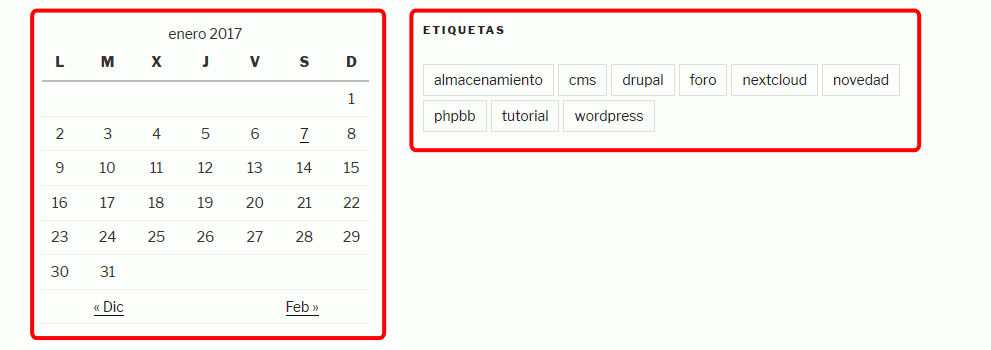
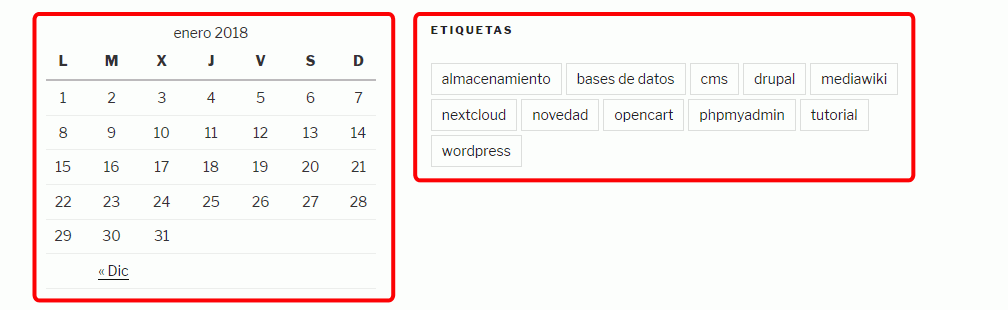
Sigo actualizando ejercicios y soluciones WordPress 3

diff --git a/lecciones/nextcloud.html b/lecciones/nextcloud.html
@@ -55,65 +55,68 @@
     <p>ownCloud es un proyecto iniciado por <a href="http://karlitschek.de/">Frank Karlitschek</a> a principios de 2010. En diciembre de 2011 Karlitschek creó la empressa ownCloud Inc. para proporcionar servicios profesionales alrededor de ownCloud. Por divergencias relacionadas con el modelo de negocio, en junio de 2016 Karlitschek y la mayoría de desarrolladores se separaron de ownCloud y fundaron un nuevo proyecto, Nextcloud, con un modelo de desarrollo más abierto y comprometido con el software libre.</p>
 
     <p class="mcl-centrado">
-      <svg version="1.1" xmlns="http://www.w3.org/2000/svg" width="1100" viewBox="-50 -60 1100 100">
-        <line x1="35" y1="0" x2="780" y2="0" stroke-width="3" stroke="hsl(215, 40%, 19%)" />
-        <line x1="780" y1="0" x2="1040" y2="0" stroke-width="3" stroke="hsl(201, 87%, 43%)" />
-        <text x="-40" y="-10" text-anchor="start" style="font-size: 100%">Nextcloud</text>
-        <text x="-40" y="25" text-anchor="start" style="font-size: 100%">ownCloud</text>
-        <text x="-10" y="-50" text-anchor="middle" style="font-size: 60%">Actualizado</text>
-        <text x="-10" y="-38" text-anchor="middle" style="font-size: 60%">25-05-2017</text>
+      <svg version="1.1" xmlns="http://www.w3.org/2000/svg" width="984" viewBox="-100 -60 984 110">
+        <line x1="-20" y1="0" x2="594" y2="0" stroke-width="3" stroke="hsl(215, 40%, 19%)" />
+        <line x1="594" y1="0" x2="884" y2="0" stroke-width="3" stroke="hsl(201, 87%, 43%)" />
+        <text x="-100" y="-10" text-anchor="start" fill="hsl(201, 87%, 43%)" style="font-size: 100%">Nextcloud</text>
+        <text x="-100" y="25" text-anchor="start" fill="hsl(215, 40%, 19%)" style="font-size: 100%">ownCloud</text>
+        <text x="-60" y="-50" text-anchor="middle" style="font-size: 60%">Actualizado</text>
+        <text x="-60" y="-38" text-anchor="middle" style="font-size: 60%">22-01-2018</text>
 
-        <line x1="60" y1="-30" x2="60" y2="30" stroke-width="1" stroke-dasharray="5,5" stroke="black" />
-        <text x="120" y="-40" text-anchor="middle" style="font-size: 80%">2010</text>
-        <line x1="180" y1="-30" x2="180" y2="30" stroke-width="1" stroke-dasharray="5,5" stroke="black" />
-        <text x="240" y="-40" text-anchor="middle" style="font-size: 80%">2011</text>
-        <line x1="300" y1="-30" x2="300" y2="30" stroke-width="1" stroke-dasharray="5,5" stroke="black" />
-        <text x="360" y="-40" text-anchor="middle" style="font-size: 80%">2012</text>
-        <line x1="420" y1="-30" x2="420" y2="30" stroke-width="1" stroke-dasharray="5,5" stroke="black" />
-        <text x="480" y="-40" text-anchor="middle" style="font-size: 80%">2013</text>
-        <line x1="540" y1="-30" x2="540" y2="30" stroke-width="1" stroke-dasharray="5,5" stroke="black" />
-        <text x="600" y="-40" text-anchor="middle" style="font-size: 80%">2014</text>
-        <line x1="660" y1="-30" x2="660" y2="30" stroke-width="1" stroke-dasharray="5,5" stroke="black" />
-        <text x="720" y="-40" text-anchor="middle" style="font-size: 80%">2015</text>
-        <line x1="780" y1="-30" x2="780" y2="30" stroke-width="1" stroke-dasharray="5,5" stroke="black" />
-        <text x="840" y="-40" text-anchor="middle" style="font-size: 80%">2016</text>
-        <line x1="900" y1="-30" x2="900" y2="30" stroke-width="1" stroke-dasharray="5,5" stroke="black" />
-        <text x="960" y="-40" text-anchor="middle" style="font-size: 80%">2017</text>
-        <line x1="1020" y1="-30" x2="1020" y2="30" stroke-width="1" stroke-dasharray="5,5" stroke="black" />
-        <text x="1080" y="-40" text-anchor="middle" style="font-size: 80%">2018</text>
+        <line x1="0" y1="-50" x2="0" y2="50" stroke-width="1" stroke-dasharray="5,5" stroke="black" />
+        <text x="48" y="-40" text-anchor="middle" style="font-size: 80%">2010</text>
+        <line x1="96" y1="-50" x2="96" y2="50" stroke-width="1" stroke-dasharray="5,5" stroke="black" />
+        <text x="144" y="-40" text-anchor="middle" style="font-size: 80%">2011</text>
+        <line x1="192" y1="-50" x2="192" y2="50" stroke-width="1" stroke-dasharray="5,5" stroke="black" />
+        <text x="240" y="-40" text-anchor="middle" style="font-size: 80%">2012</text>
+        <line x1="288" y1="-50" x2="288" y2="50" stroke-width="1" stroke-dasharray="5,5" stroke="black" />
+        <text x="336" y="-40" text-anchor="middle" style="font-size: 80%">2013</text>
+        <line x1="384" y1="-50" x2="384" y2="50" stroke-width="1" stroke-dasharray="5,5" stroke="black" />
+        <text x="432" y="-40" text-anchor="middle" style="font-size: 80%">2014</text>
+        <line x1="480" y1="-50" x2="480" y2="50" stroke-width="1" stroke-dasharray="5,5" stroke="black" />
+        <text x="528" y="-40" text-anchor="middle" style="font-size: 80%">2015</text>
+        <line x1="576" y1="-50" x2="576" y2="50" stroke-width="1" stroke-dasharray="5,5" stroke="black" />
+        <text x="624" y="-40" text-anchor="middle" style="font-size: 80%">2016</text>
+        <line x1="672" y1="-50" x2="672" y2="50" stroke-width="1" stroke-dasharray="5,5" stroke="black" />
+        <text x="720" y="-40" text-anchor="middle" style="font-size: 80%">2017</text>
+        <line x1="768" y1="-50" x2="768" y2="50" stroke-width="1" stroke-dasharray="5,5" stroke="black" />
+        <text x="816" y="-40" text-anchor="middle" style="font-size: 80%">2018</text>
+        <line x1="864" y1="-50" x2="864" y2="50" stroke-width="1" stroke-dasharray="5,5" stroke="black" />
 
-        <circle cx="117" cy="0" r="5" fill="hsl(215, 40%, 19%)" />
-        <text x="117" y="25" text-anchor="middle" fill="hsl(215, 40%, 19%)" style="font-size: 80%; font-weight: bold">1</text>
-        <circle cx="167" cy="0" r="5" fill="hsl(215, 40%, 19%)" />
-        <text x="167" y="25" text-anchor="middle" fill="hsl(215, 40%, 19%)" style="font-size: 80%; font-weight: bold">1.1</text>
-        <circle cx="273" cy="0" r="5" fill="hsl(215, 40%, 19%)" />
-        <text x="273" y="25" text-anchor="middle" fill="hsl(215, 40%, 19%)" style="font-size: 80%; font-weight: bold">2</text>
-        <circle cx="310" cy="0" r="5" fill="hsl(215, 40%, 19%)" />
-        <text x="310" y="25" text-anchor="middle" fill="hsl(215, 40%, 19%)" style="font-size: 80%; font-weight: bold">3</text>
-        <circle cx="347" cy="0" r="5" fill="hsl(215, 40%, 19%)" />
-        <text x="347" y="25" text-anchor="middle" fill="hsl(215, 40%, 19%)" style="font-size: 80%; font-weight: bold">4</text>
-        <circle cx="393" cy="0" r="5" fill="hsl(215, 40%, 19%)" />
-        <text x="393" y="25" text-anchor="middle" fill="hsl(215, 40%, 19%)" style="font-size: 80%; font-weight: bold">4.5</text>
-        <circle cx="444" cy="0" r="5" fill="hsl(215, 40%, 19%)" />
-        <text x="444" y="25" text-anchor="middle" fill="hsl(215, 40%, 19%)" style="font-size: 80%; font-weight: bold">5</text>
-        <circle cx="533" cy="0" r="5" fill="hsl(215, 40%, 19%)" />
-        <text x="533" y="25" text-anchor="middle" fill="hsl(215, 40%, 19%)" style="font-size: 80%; font-weight: bold">6</text>
-        <circle cx="597" cy="0" r="5" fill="hsl(215, 40%, 19%)" />
-        <text x="597" y="25" text-anchor="middle" fill="hsl(215, 40%, 19%)" style="font-size: 80%; font-weight: bold">7</text>
-        <circle cx="673" cy="0" r="5" fill="hsl(215, 40%, 19%)" />
-        <text x="673" y="25" text-anchor="middle" fill="hsl(215, 40%, 19%)" style="font-size: 80%; font-weight: bold">8</text>
-        <circle cx="722" cy="0" r="5" fill="hsl(215, 40%, 19%)" />
-        <text x="722" y="25" text-anchor="middle" fill="hsl(215, 40%, 19%)" style="font-size: 80%; font-weight: bold">8.1</text>
-        <circle cx="756" cy="0" r="5" fill="hsl(215, 40%, 19%)" />
-        <text x="756" y="25" text-anchor="middle" fill="hsl(215, 40%, 19%)" style="font-size: 80%; font-weight: bold">8.2</text>
-        <circle cx="802" cy="0" r="5" fill="hsl(201, 87%, 43%)" />
-        <text x="802" y="-15" text-anchor="middle" fill="hsl(201, 87%, 43%)" style="font-size: 80%; font-weight: bold">9</text>
-        <circle cx="858" cy="0" r="5" fill="hsl(201, 87%, 43%)" />
-        <text x="858" y="-15" text-anchor="middle" fill="hsl(201, 87%, 43%)" style="font-size: 80%; font-weight: bold">10</text>
-        <circle cx="894" cy="0" r="5" fill="hsl(201, 87%, 43%)" />
-        <text x="894" y="-15" text-anchor="middle" fill="hsl(201, 87%, 43%)" style="font-size: 80%; font-weight: bold">11</text>
-        <circle cx="947" cy="0" r="5" fill="hsl(201, 87%, 43%)" />
-        <text x="947" y="-15" text-anchor="middle" fill="hsl(201, 87%, 43%)" style="font-size: 80%; font-weight: bold">12</text>
+        <circle cx="46" cy="0" r="5" fill="hsl(215, 40%, 19%)" />
+        <text x="46" y="25" text-anchor="middle" fill="hsl(215, 40%, 19%)" style="font-size: 80%; font-weight: bold">1</text>
+        <circle cx="86" cy="0" r="5" fill="hsl(215, 40%, 19%)" />
+        <text x="86" y="25" text-anchor="middle" fill="hsl(215, 40%, 19%)" style="font-size: 80%; font-weight: bold">1.1</text>
+        <circle cx="170" cy="0" r="5" fill="hsl(215, 40%, 19%)" />
+        <text x="170" y="25" text-anchor="middle" fill="hsl(215, 40%, 19%)" style="font-size: 80%; font-weight: bold">2</text>
+        <circle cx="200" cy="0" r="5" fill="hsl(215, 40%, 19%)" />
+        <text x="200" y="25" text-anchor="middle" fill="hsl(215, 40%, 19%)" style="font-size: 80%; font-weight: bold">3</text>
+        <circle cx="229" cy="0" r="5" fill="hsl(215, 40%, 19%)" />
+        <text x="229" y="25" text-anchor="middle" fill="hsl(215, 40%, 19%)" style="font-size: 80%; font-weight: bold">4</text>
+        <circle cx="266" cy="0" r="5" fill="hsl(215, 40%, 19%)" />
+        <text x="266" y="25" text-anchor="middle" fill="hsl(215, 40%, 19%)" style="font-size: 80%; font-weight: bold">4.5</text>
+        <circle cx="307" cy="0" r="5" fill="hsl(215, 40%, 19%)" />
+        <text x="307" y="25" text-anchor="middle" fill="hsl(215, 40%, 19%)" style="font-size: 80%; font-weight: bold">5</text>
+        <circle cx="379" cy="0" r="5" fill="hsl(215, 40%, 19%)" />
+        <text x="379" y="25" text-anchor="middle" fill="hsl(215, 40%, 19%)" style="font-size: 80%; font-weight: bold">6</text>
+        <circle cx="430" cy="0" r="5" fill="hsl(215, 40%, 19%)" />
+        <text x="430" y="25" text-anchor="middle" fill="hsl(215, 40%, 19%)" style="font-size: 80%; font-weight: bold">7</text>
+        <circle cx="491" cy="0" r="5" fill="hsl(215, 40%, 19%)" />
+        <text x="491" y="25" text-anchor="middle" fill="hsl(215, 40%, 19%)" style="font-size: 80%; font-weight: bold">8</text>
+        <circle cx="529" cy="0" r="5" fill="hsl(215, 40%, 19%)" />
+        <text x="529" y="25" text-anchor="middle" fill="hsl(215, 40%, 19%)" style="font-size: 80%; font-weight: bold">8.1</text>
+        <circle cx="557" cy="0" r="5" fill="hsl(215, 40%, 19%)" />
+        <text x="557" y="25" text-anchor="middle" fill="hsl(215, 40%, 19%)" style="font-size: 80%; font-weight: bold">8.2</text>
+        <circle cx="594" cy="0" r="5" fill="hsl(201, 87%, 43%)" />
+        <text x="594" y="-15" text-anchor="middle" fill="hsl(201, 87%, 43%)" style="font-size: 80%; font-weight: bold">9</text>
+        <circle cx="639" cy="0" r="5" fill="hsl(201, 87%, 43%)" />
+        <text x="639" y="-15" text-anchor="middle" fill="hsl(201, 87%, 43%)" style="font-size: 80%; font-weight: bold">10</text>
+        <circle cx="668" cy="0" r="5" fill="hsl(201, 87%, 43%)" />
+        <text x="668" y="-15" text-anchor="middle" fill="hsl(201, 87%, 43%)" style="font-size: 80%; font-weight: bold">11</text>
+        <circle cx="710" cy="0" r="5" fill="hsl(201, 87%, 43%)" />
+        <text x="710" y="-15" text-anchor="middle" fill="hsl(201, 87%, 43%)" style="font-size: 80%; font-weight: bold">12</text>
+        <circle cx="776" cy="0" r="5" fill="white" stroke="hsl(201, 87%, 43%)" stroke-width="2" />
+        <text x="776" y="-15" text-anchor="middle" fill="hsl(201, 87%, 43%)" style="font-size: 80%; font-weight: bold">13</text>
       </svg>
     </p>
 
@@ -125,7 +128,7 @@
   </section>
 
   <footer>
-    <p class="ultmod">Última modificación de esta página: 25 de mayo de 2017</p>
+    <p class="ultmod">Última modificación de esta página: 22 de enero de 2018</p>
 
     <p class="licencia"><a rel="license" href="https://creativecommons.org/licenses/by-sa/4.0/deed.es_ES"><img src="../varios/iconos/icono-cc-by-sa.svg" alt="Licencia Creative Commons" title="Licencia Creative Commons BY-SA" width="120" height="42" /></a><br />
       Esta página forma parte del curso <strong><a href="http://www.mclibre.org/consultar/webapps/">Aplicaciones web</a></strong> por <a href="http://www.mclibre.org/" rel="author">Bartolomé Sintes Marco</a><br />

diff --git a/lecciones/wordpress-3.html b/lecciones/wordpress-3.html
@@ -64,7 +64,24 @@
 
   <p>Los plugins propuestos en esta página estaban disponibles para WordPress 4.9 en el momento de redactar estos ejercicios (enero de 2018). Es posible que en futuro esos plugins no estén disponibles para versiones posteriores de WordPress, o incluso hayan dejado de estar disponibles para cualquier versión. En ese caso, se pueden utilizar otros plugins de los disponibles en ese momento.</p>
 
-  <p class="incompleto"><img src="../varios/iconos/icono-en-construccion.svg" alt="En construcción" title="En construcción" width="55" height="48" />Estas ejercicios están pendientes de actualizar para WordPress 4.9.</p>
+  <hr class="corta" />
+
+  <p>Los plugins que se muestran en el directorio de plugins son gratuitos, aunque muchos son las versiones gratuitas de plugins de pago.</p>
+
+  <p>En Internet existen bastantes directorios enfocados a plugins de pago como:</p>
+  <ul>
+    <li><a href="https://market.envato.com/">Envato Market</a>: <a href="https://codecanyon.net/category/wordpress">plugins</a>, <a href="https://themeforest.net/category/wordpress">temas</a>, etc.</li>
+    <li><a href="https://www.mojomarketplace.com/">MOJO Marketplace</a>: <a href="https://www.mojomarketplace.com/plugins/wordpress">plugins</a>, <a href="http://www.mojomarketplace.com/themes/wordpress">temas</a>, etc.</li>
+    <li><a href="https://www.codester.com/">codester</a>: <a href="https://www.codester.com/categories/32/wordpress-plugins">plugins</a>, <a href="https://www.codester.com/categories/33/wordpress-themes">temas</a>, etc.</li>
+  </ul>
+
+  <hr class="corta" />
+
+  <p>El directorio de plugins de WordPress cambió su diseño en marzo de 2017 y su usabilidad ha sido bastante criticada (por ejemplo, este <a href="https://medium.com/@jeffmcneill/wordpress-plugins-redesign-2017-263cbf12cf6a">artículo de Jeff Mcneill</a> o los comentarios de este <a href="https://wptavern.com/wordpress-relaunches-plugin-directory-with-new-design-and-improved-search-algorithm">post comentado la puesta en marcha</a>).</p>
+
+  <p>La principal crítica es posiblemente que no se pueden personalizar las búsquedas (por popularidad, valoraciones, fecha de actualización, existencia de versión de pago, etc.).</p>
+
+  <p>Por ejemplo, si se conoce el nombre de un plug-in, se suele encontrar antes buscando en Google (añadiendo site:https://es.wordpress.org en la búsqueda para que la respuesta sea la página del directorio de plugins) que en el propio directorio.</p>
 
   <section id="ejercicio-1">
     <h2>WordPress (3) 1 - Widgets</h2>
@@ -90,12 +107,12 @@
       </li>
       <li>Active los widgets Calendario y Nube de etiquetas y compruebe su funcionamiento.
         <p class="captura">
-          <img src="../img/wordpress/3-1-e-4-widgets.png" alt="WordPress. Widgets" width="991" height="350" />
+          <img src="../img/wordpress/3-1-e-4-widgets.png" alt="WordPress. Widgets" width="1008" height="310" />
         </p>
       </li>
       <li>Active el widget RSS. La fuente será <a href="https://wordpress.org/news/">https://wordpress.org/news/</a> y mostrará los dos últimos feeds con su fecha.
         <p class="captura">
-          <img src="../img/wordpress/3-1-e-5-widgets.png" alt="WordPress. Widgets" width="410" height="350" />
+          <img src="../img/wordpress/3-1-e-5-widgets.png" alt="WordPress. Widgets" width="450" height="380" />
         </p>
       </li>
       <li>Widget Texto
@@ -104,16 +121,6 @@
           <img src="../img/wordpress/3-1-e-6-widgets.png" alt="WordPress. Widgets" width="410" height="90" />
         </p>
         <p>Fuente: <a href="https://es.wikiquote.org/wiki/Proverbios_en_lat%C3%ADn">Proverbios latinos</a></p>
-      </li>
-      <li>Widget "Image widget"
-        <p>Instale y active el plugin "Image Widget".</p>
-        <p class="captura">
-          <img src="../img/wordpress/3-1-e-7-widgets.png" alt="WordPress. Widgets" width="570" height="276" />
-        </p>
-        <p>Configúrelo para insertar una imagen que enlace a algún sitio.</p>
-        <p class="captura">
-          <img src="../img/wordpress/3-1-e-8-widgets.png" alt="WordPress. Widgets" width="300" height="190" />
-        </p>
       </li>
       <li>Widget Meta.
         <p>Configure el widget Meta y modifique su código fuente (haga antes una copia de seguridad del archivo original) para dejar el widget con sólo dos opciones (que se convierten en tres al entrar como usuario registrado):</p>
@@ -128,6 +135,27 @@
           </ul>
         </details>
       </li>
+      <li>Widget Imagen
+        <p>Configúrelo para insertar una imagen que enlace a algún sitio.</p>
+        <p class="captura">
+          <img src="../img/wordpress/3-1-e-8-widgets.png" alt="WordPress. Widgets" width="300" height="190" />
+        </p>
+      </li>
+      <li>Widget Audio
+        <p>Configúrelo para insertar una canción (ejemplo: la canción <a href="http://www.mclibre.org/descargar/musica/Ehma-Les-Temps-Modernes-03-Pizzicato.mp3">Pizzicato</a> (3,3 MB) del álbum <a href="http://altermusique.org/Ehma/Les-temps-modernes/">Les temps modernes</a> del compositor belga <a href="https://fr.wikipedia.org/wiki/Ehma">Emmanuel Codden</a> "Ehma").</p>
+        <p>Puede ser necesaria cambiar la configuración de PHP para permitir la subida de archivos grandes.</p>
+        <p class="captura">
+          <img src="../img/wordpress/3-1-e-11-widgets.png" alt="WordPress. Widgets" width="350" height="110" />
+        </p>
+      </li>
+      <li>Widget Galería
+          <p>Configúrelo para insertar dos o tres imágenes.</p>
+          <p class="captura">
+            <img src="../img/wordpress/3-1-e-12-widgets.jpg" alt="WordPress. Widgets" width="350" height="555" />
+          </p>
+        </li>
+        <li><img src="../varios/iconos/icono-en-construccion.svg" alt="En construcción" title="En construcción" width="55" height="48" />Estas ejercicios están pendientes de actualizar para WordPress 4.9.</li>
+      <li>Pruebe los nuevos widgets de WordPress 4.9: HTML personalizado y Vídeo</li>
     </ol>
   </section>
 
@@ -464,7 +492,7 @@
   </section>
 
   <footer>
-    <p class="ultmod">Última modificación de esta página: 18 de enero de 2018</p>
+    <p class="ultmod">Última modificación de esta página: 25 de enero de 2018</p>
 
     <p class="licencia"><a rel="license" href="https://creativecommons.org/licenses/by-sa/4.0/deed.es_ES"><img src="../varios/iconos/icono-cc-by-sa.svg" alt="Licencia Creative Commons" title="Licencia Creative Commons BY-SA" width="120" height="42" /></a><br />
       Esta página forma parte del curso <strong><a href="http://www.mclibre.org/consultar/webapps/">Aplicaciones web</a></strong> por <a href="http://www.mclibre.org/" rel="author">Bartolomé Sintes Marco</a><br />

diff --git a/otros/otras-aplicaciones.html b/otros/otras-aplicaciones.html
@@ -37,8 +37,12 @@
     <ul>
       <li><a href="https://github.com/cncf/landscape">Cloud Native Landscape Project</a>, <a href="https://raw.githubusercontent.com/cncf/landscape/master/landscape/CloudNativeLandscape_latest.jpg">cartel</a> que "resume" proyectos y tecnologías de la nube.</li>
       <li><a href="https://woocommerce.com/">WooCommerce</a>, tienda para WordPress</li>
+      <li><a href="https://p2theme.com/">P2</a>, tema para WordPress recomendado por el propio Matt Mullenweg</li>
       <li>Layers, creador de temas para WordPress: <a href="https://www.layerswp.com/">https://www.layerswp.com/</a></li>
       <li><a href="https://github.com/255kb/stack-on-a-budget">Stack on a budget</a>, recursos gratuitos para alojamiento</li>
+      <li><a href="https://ghost.org/es/">Ghost</a>, fork de WordPress</li>
+      <li><a href="http://pagepipe.com/">PagePipe</a>, recomendaciones para acelerar WordPress</li>
+      <li><a href="https://www.littlebizzy.com/plugins">LittleBizzy</a>, empresa de alojamiento web ofrece varios plugins y temas para WordPress</li>
     </ul>
   </section>
 
@@ -198,7 +202,7 @@
   </section>
 
   <footer>
-    <p class="ultmod">Última modificación de esta página: 14 de diciembre de 2017</p>
+    <p class="ultmod">Última modificación de esta página: 18 de enero de 2018</p>
 
     <p class="licencia"><a rel="license" href="https://creativecommons.org/licenses/by-sa/4.0/deed.es_ES"><img src="../varios/iconos/icono-cc-by-sa.svg" alt="Licencia Creative Commons" title="Licencia Creative Commons BY-SA" width="120" height="42" /></a><br />
       Esta página forma parte del curso <strong><a href="http://www.mclibre.org/consultar/webapps/">Aplicaciones web</a></strong> por <a href="http://www.mclibre.org/" rel="author">Bartolomé Sintes Marco</a><br />

diff --git a/lecciones/wordpress-3-soluciones.html b/lecciones/wordpress-3-soluciones.html
@@ -139,6 +139,27 @@ wp_meta();
           </li>
         </ul>
       </li>
+      <li>Widget Audio / Vídeo
+        <p>Aumentar el tamaño de las imágenes que se pueden subir a los artículos.</p>
+        <ul>
+          <li>en <strong>php.ini</strong>:
+            <div class="codigo">
+              <pre>
+<code class="language-configuracion">upload_max_filesize = 10M
+post_max_size = 10M</code>
+</pre>
+            </div>
+          </li>
+          <li>en <strong>.htaccess</strong>:
+            <div class="codigo">
+              <pre>
+<code class="language-configuracion">php_value upload_max_filesize 10M
+php_value post_max_size 10M</code>
+</pre>
+            </div>
+          </li>
+        </ul>
+      </li>
     </ul>
   </section>
 
@@ -173,7 +194,7 @@ wp_meta();
   </section>
 
   <footer>
-    <p class="ultmod">Última modificación de esta página: 18 de enero de 2018</p>
+    <p class="ultmod">Última modificación de esta página: 25 de enero de 2018</p>
 
     <p class="licencia"><a rel="license" href="https://creativecommons.org/licenses/by-sa/4.0/deed.es_ES"><img src="../varios/iconos/icono-cc-by-sa.svg" alt="Licencia Creative Commons" title="Licencia Creative Commons BY-SA" width="120" height="42" /></a><br />
       Esta página forma parte del curso <strong><a href="http://www.mclibre.org/consultar/webapps/">Aplicaciones web</a></strong> por <a href="http://www.mclibre.org/" rel="author">Bartolomé Sintes Marco</a><br />

diff --git a/otros/historia-cuadros.html b/otros/historia-cuadros.html
@@ -30,10 +30,10 @@
         <th>Año</th>
         <th><a href="https://www.phpmyadmin.net/">phpMyAdmin</a></th>
         <th><a href="https://www.opencart.com/">OpenCart</a></th>
-        <th><a href="https://owncloud.org/">ownCloud</a></th>
+        <th><a href="https://nextcloud.com/">Nextcloud</a></th>
         <th><a href="https://wordpress.org/">WordPress</a></th>
         <th><a href="https://www.drupal.org/">Drupal</a></th>
-        <th><a href="https://nextcloud.com/">Nextcloud</a></th>
+        <th><a href="https://owncloud.org/">ownCloud</a></th>
         <th><a href="https://www.mediawiki.org/wiki/MediaWiki">MediaWiki</a></th>
         <th><a href="https://www.phpbb.com/">phpBB</a></th>
         <th>Año</th>
@@ -42,9 +42,9 @@
     <tbody>
       <tr>
         <th>2018</th>
+        <td></td>
+        <td></td>
         <td>¿Ene?: NextCloud 13</td>
-        <td></td>
-        <td></td>
         <td></td>
         <td>¿Sep?: Drupal 8.6<br /> ¿Mar?: Drupal 8.5</td>
         <td></td>
@@ -82,8 +82,8 @@
         <td>Sep: OpenCart 2.1</td>
         <td></td>
         <td>Dic: WP 4.4<br /> Ago: WP 4.3<br /> Abr: WP 4.2</td>
-        <td>Oct: ownCloud 8.2<br /> Jun: ownCloud 8.1<br /> Feb: ownCloud 8.0</td>
         <td>Nov: Drupal 8.0</td>
+        <td>Oct: ownCloud 8.2<br /> Jun: ownCloud 8.1<br /> Feb: ownCloud 8.0</td>
         <td>Nov. MediaWiki 1.26<br /> May: MediaWiki 1.25</td>
         <td></td>
         <th>2015</th>

diff --git a/index.html b/index.html
@@ -205,7 +205,7 @@
   </div>
 
   <footer>
-    <p class="ultmod">Última modificación de alguna página de este curso: 18 de enero de 2018</p>
+    <p class="ultmod">Última modificación de alguna página de este curso: 19 de enero de 2018</p>
 
     <p class="licencia"><a rel="license" href="https://creativecommons.org/licenses/by-sa/4.0/deed.es_ES"><img src="varios/iconos/icono-cc-by-sa.svg" alt="Licencia Creative Commons" title="Licencia Creative Commons BY-SA" width="120" height="42" /></a><br />
       Esta página forma parte del curso <strong><a href="http://www.mclibre.org/consultar/webapps/">Aplicaciones web</a></strong> por <a href="http://www.mclibre.org/" rel="author">Bartolomé Sintes Marco</a><br />

diff --git a/lecciones/wordpress-2.html b/lecciones/wordpress-2.html
@@ -284,7 +284,7 @@
     <ul>
       <li>Cree las categorías: Novedades, Tutoriales, </li>
       <li>Cree las categorías Nueva versión y Actualización como subcategorías de Novedades</li>
-      <li>Cree las etiquetas: drupal, mediawiki, nextcloud, opencart, wordpress, almacenamiento, cms, comercio electrónico, novedad, tutorial</li>
+      <li>Cree las etiquetas: drupal, mediawiki, nextcloud, opencart, phpmyadmin, wordpress, almacenamiento, bases de datos, cms, comercio electrónico, novedad, tutorial</li>
       <li>Asocie las categorías y etiquetas a las entradas creadas</li>
     </ul>
   </section>
